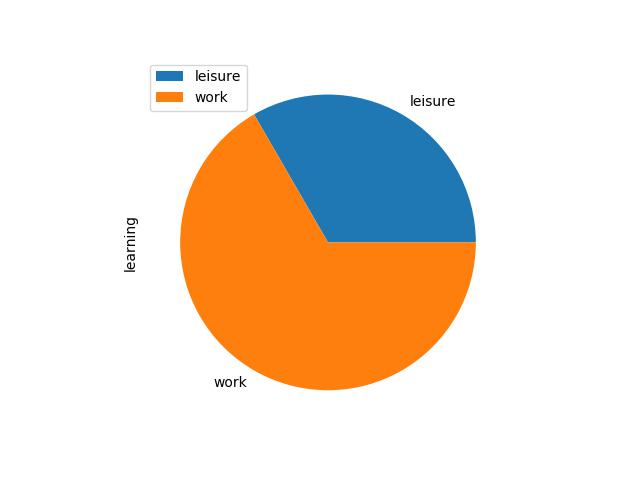
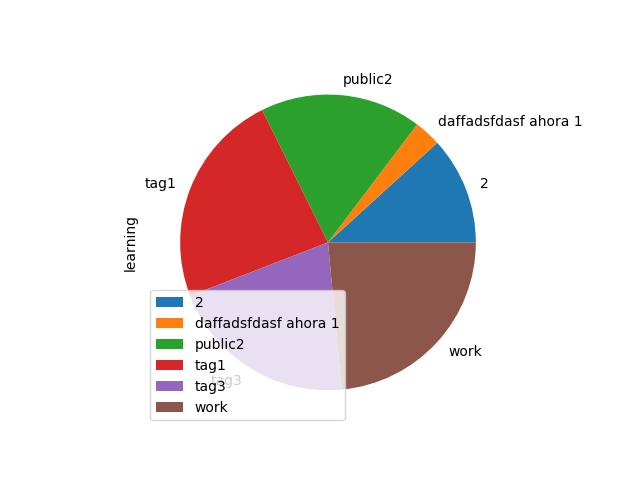
Fix stats render

Changed region(s): [[0.2188, 0.1562, 0.9062, 0.875], [0.2188, 0.125, 0.375, 0.2188]]

diff --git a/public/my_services/templates/my_services/welcome.html b/public/my_services/templates/my_services/welcome.html
@@ -1,0 +1,9 @@
+{% extends 'base.html' %}
+
+{% block title %}Sign in{% endblock %}
+
+{% block content %}
+
+  <h2>Welcome {{e}}</h2>
+
+{% endblock %}

diff --git a/public/my_learn/views.py b/public/my_learn/views.py
@@ -37,12 +37,75 @@ def getUser(req):
     a = a['localId']
     return a
 
-#def my_learn(request):
-#    return render(request,"my_learn/my_learn.html")
+
+def getUserUp(req):
+    idtoken= req.session['uid']
+    a = auth.get_account_info(idtoken)
+    a = a['users']
+    a = a[0]
+    a = a['localId']
+    return a,idtoken
+
+def my_learn2(request):
+    user,token=getUserUp(request)
+    public1=request.POST.get("public1")
+    public2=request.POST.get("public2")
+    public3=request.POST.get("public3")
+    tag1=request.POST.get("tag1")
+    tag2=request.POST.get("tag2")
+    tag3=request.POST.get("tag2")
+    learning_1=request.POST.get("learning_1")
+    learning_2=request.POST.get("learning_2")
+    learning_3=request.POST.get("learning_3")
+    uploadData(user,token,"learning_1","tag1","public1","learning_2","public2","tag2","learning_3","tag3","public3")
+    try:
+        return redirect('my_services:my_services')
+
+    except BadHeaderError:
+        return HttpResponse('Invalid header found. ')
+            #return redirect('contact_me:email_success')
+
+    context = {'form': form}
+    template = 'my_learn/my_learn.html'
+    return render(request, template, context)
 
 def my_learn(request):
+
+    user,token=getUserUp(request)
+    if request.method == 'GET':
+        form = ContactForm()
+    else:
+        form = ContactForm(request.POST)
+
+        if form.is_valid():
+            public1 = "1"#form.cleaned_data['public1']
+            public2 = "2"#form.cleaned_data['public2']
+            public3 = "3"#form.cleaned_data['public3']
+            tag1 = form.cleaned_data['tag1']
+            tag2 = form.cleaned_data['tag2']
+            tag3 = form.cleaned_data['tag3']
+            learning_1 = form.cleaned_data['learning_1']
+            learning_2 = form.cleaned_data['learning_2']
+            learning_3 = form.cleaned_data['learning_3']
+            #uploadData(user,token,"learning_1","tag1","public1","learning_2","public2","tag2","learning_3","tag3","public3")
+
+            try:
+                uploadData(user,token,learning_1,tag1,public1,learning_2,public2,tag2,learning_3,tag3,public3)
+                return redirect('my_services:my_services')
+
+            except BadHeaderError:
+                return HttpResponse('Invalid header found. ')
+                    #return redirect('contact_me:email_success')
+
+    context = {'form': form}
+    template = 'my_learn/my_learn.html'
+    return render(request, template, context)
+
+
+def my_learn0(request):
+
     try:
-        user=getUser(request)
+        user,token=getUserUp(request)
         if request.method == 'GET':
             form = ContactForm()
         else:
@@ -57,8 +120,9 @@ def my_learn(request):
                 learning_1 = form.cleaned_data['learning_1']
                 learning_2 = form.cleaned_data['learning_2']
                 learning_3 = form.cleaned_data['learning_3']
+
                 try:
-                    uploadData(user,learning_1,tag1,public1,learning_2,public2,tag2,learning_3,tag3,public3)
+                    uploadData(user,token,learning_1,tag1,public1,learning_2,public2,tag2,learning_3,tag3,public3)
                     return redirect('my_services:my_services')
 
                 except BadHeaderError:
@@ -72,51 +136,26 @@ def my_learn(request):
         return render(request,"sign_in/sign_in.html")
 
 
-def uploadData(a,learning_1,tag1,learning_2,tag2,learning_3,tag3):
+def uploadData(a,tok,learning_1,tag1,public1,learning_2,tag2,public2,learning_3,tag3,public3):
 
     h=datetime.datetime.today().strftime('%Y-%m-%d-%H-%M-%S')
     database.child('users').child(a).child(h).set({
                     'learning' : learning_1,
                     'tag' : tag1,
-                    'public' : public1})
+                    'public' : public1},tok)
     time.sleep(1)
     h=datetime.datetime.today().strftime('%Y-%m-%d-%H-%M-%S')
     database.child('users').child(a).child(h).set({
                     'learning' : learning_2,
                     'tag' : tag2,
-                    'public' : public2})
+                    'public' : public2},tok)
     time.sleep(1)
     h=datetime.datetime.today().strftime('%Y-%m-%d-%H-%M-%S')
     database.child('users').child(a).child(h).set({
                     'learning' : learning_3,
                     'tag' : tag3,
-                    'public' : public3})
+                    'public' : public3},tok)
 
-
-def get_db_data(a):
-    def get_df(u):
-	    dic_all=database.child('users').child(u).get()
-	    return pd.DataFrame.from_dict(dic_all,orient='index')
-    df=get_df(a)
-    grouped=df.groupby('tag').count()
-    return grouped
-
-
-def render_stats(df):
-    df.plot.pie('learning')
-    # Store image in a string buffer
-    buffer = BytesIO()
-    canvas = plt.get_current_fig_manager().canvas
-    canvas.draw()
-    pilImage = PIL.Image.frombytes("RGB", canvas.get_width_height(), canvas.tostring_rgb())
-    pilImage.save(buffer, "PNG")
-    pilImage.save('./my_services/static/img/my_learnings.jpg', 'JPEG')
-#    pilImage.save('/Users/elena/Documents/projects/Aprendipedia/front/sapiens_front/public/my_services/static/img/my_learnings.jpg', 'JPEG')
-    plt.close()
-    #redirect('my_services:my_services')
-
-    # Send buffer in a http response the the browser with the mime type image/png set
-    #return HttpResponse(buffer.getvalue(), content_type="image/png")
 
 
 def post_create(request):

diff --git a/public/my_services/views.py b/public/my_services/views.py
@@ -5,6 +5,7 @@ import matplotlib.pyplot as plt
 from io import BytesIO
 import image
 import PIL, PIL.Image
+from django.http import HttpResponse
 
 config = {
     'apiKey': "AIzaSyAN69lck26rovFU924lWgC9NOgjfVpc6cU",
@@ -31,13 +32,27 @@ def getUser(req):
     a = a['localId']
     return a
 
+
 def getUserUp(req):
     idtoken= req.session['uid']
     a = auth.get_account_info(idtoken)
+    a = a['users']
+    a = a[0]
+    a = a['localId']
     return a,idtoken
 
 
 def my_services(request):
+    a,idtoken=getUserUp(request)
+    df_data=get_db_data(a,idtoken)
+    render_stats(df_data)
+    context = {}
+    template = 'my_services/my_services.html'
+    return render(request, template, context)
+
+
+
+def my_services1(request):
     try:
         user,token=getUserUp(request)
         df_data=get_db_data(user,token,database)
@@ -49,10 +64,11 @@ def my_services(request):
         return render(request,"my_services/error.html")
 
 
-def get_db_data(a,token,db):
-    local_id=auth.get_account_info(token)['users'][0]['localId']
-    dic_all=db.child('users').child(local_id).get(token)
-    df=pd.DataFrame.from_dict(dic_all.val(),orient='index')
+def get_db_data(local_id,token):
+    dic_all=database.child('users').child(local_id).get(token)
+    #df=pd.DataFrame.from_dict(dic_all.val(),orient='index')
+    df0=pd.DataFrame(dic_all.val())
+    df=df0.transpose()[['learning','tag']]
     grouped=df.groupby('tag').count()
     return grouped
 

diff --git a/public/my_learn/forms.py b/public/my_learn/forms.py
@@ -18,3 +18,6 @@ class ContactForm(forms.Form):
     tag1 = forms.ChoiceField(label="tag1", required=True,choices=TAGS)
     tag2 = forms.ChoiceField(label="tag2", required=True,choices=TAGS)
     tag3 = forms.ChoiceField(label="tag3", required=True,choices=TAGS)
+    #public1 = forms.ChoiceField(label="tag1", required=True)
+    #public2 = forms.ChoiceField(label="tag2", required=True,choices=TAGS)
+    #public3 = forms.ChoiceField(label="tag3", required=True,choices=TAGS)
